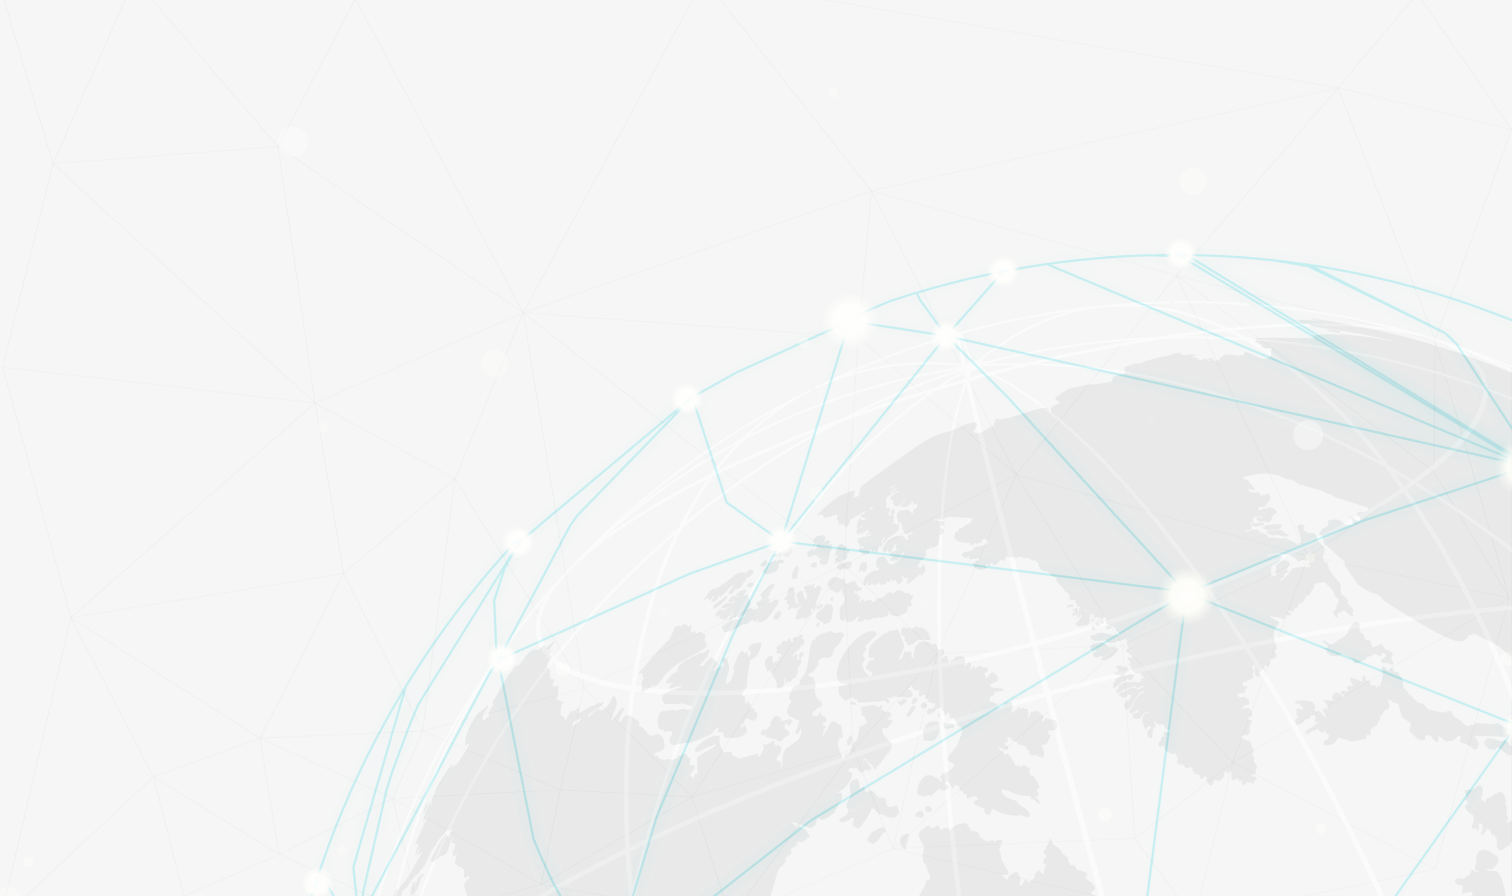
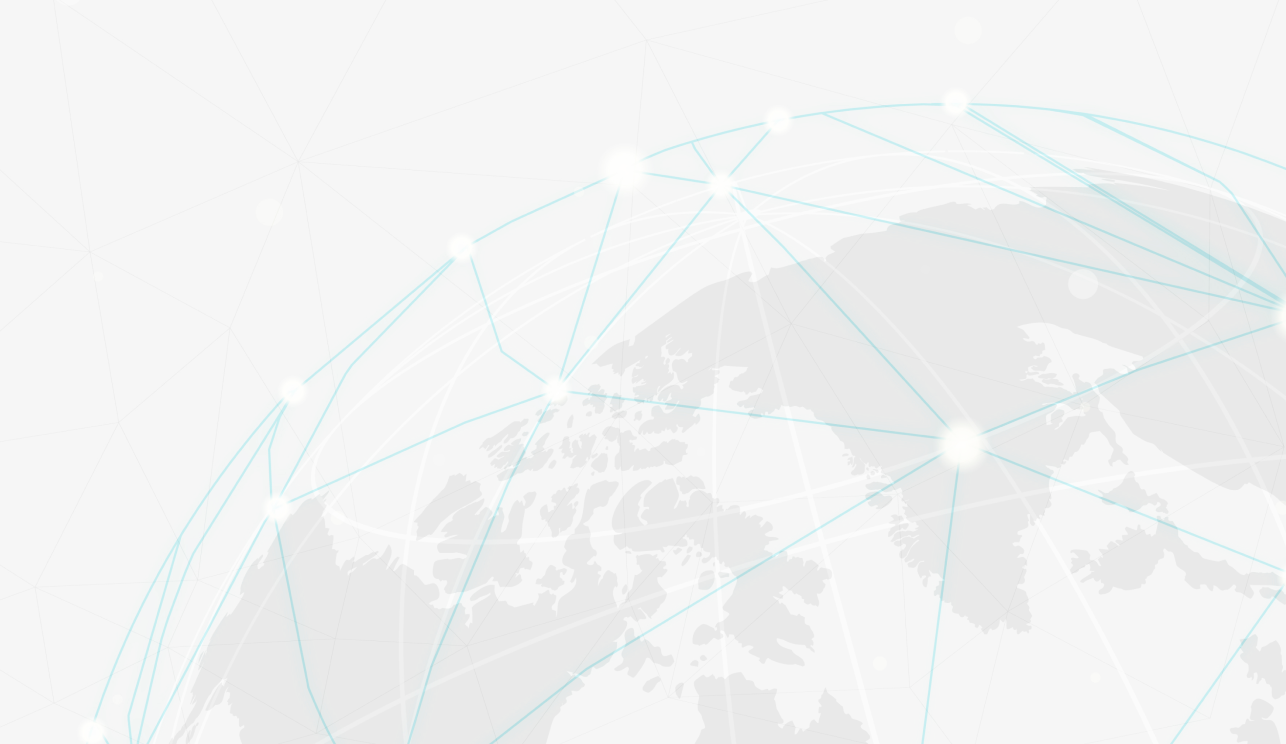
commit

diff --git a/pages/index.js b/pages/index.js
@@ -6,19 +6,14 @@ export default function Home() {
   return (
     <div>
 
-      <div className='relative'>
-
-        <img src="./homepage_bg.png" alt="" className='absolute  top-0 left-0 right-0 -z-10' />
+      <div className='relative bg-banner w-full bg-no-repeat bg-cover h-[300px] lg:h-[400px] xl:h-[600px] space-x-4 flex items-center justify-center'>
 
 
-        <div className='absolute -bottom-[250px] right-0 left-0 space-x-4 flex items-center justify-center'>
+        <button className='hover:bg-gray-600 font-inter font-medium  px-4 py-2 rounded-[5px] text-white bg-textMain'>Discover more</button>
 
-          <button className='hover:bg-gray-600 font-inter font-medium  px-4 py-2 rounded-[5px] text-white bg-textMain'>Discover more</button>
-
-          <button className='hover:bg-gray-600 font-inter font-medium  px-4 py-2 rounded-[5px] text-white bg-textMain'>Services</button>
-        </div>
-
+        <button className='hover:bg-gray-600 font-inter font-medium  px-4 py-2 rounded-[5px] text-white bg-textMain'>Services</button>
       </div>
+
     </div>
   )
 }
